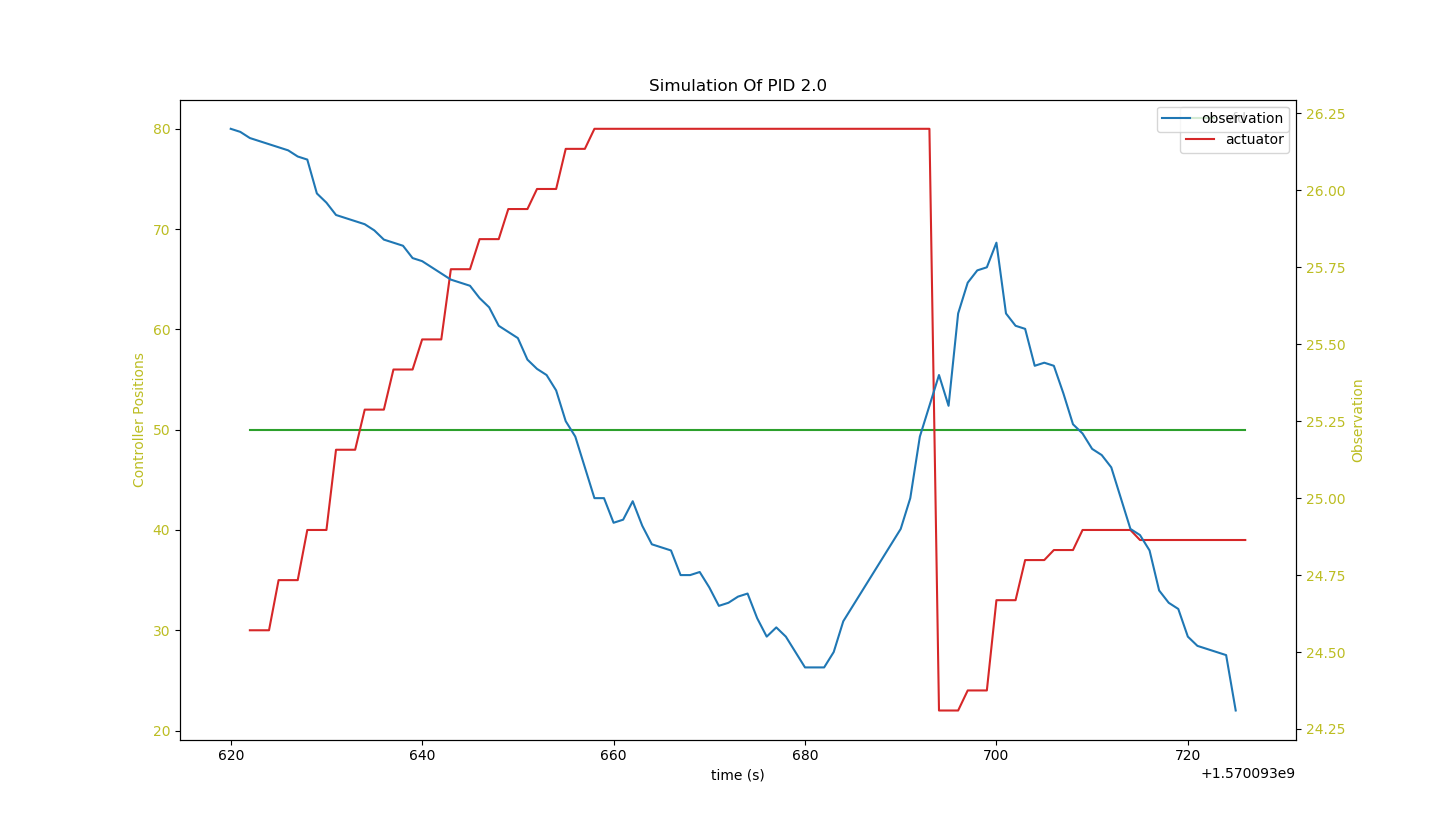
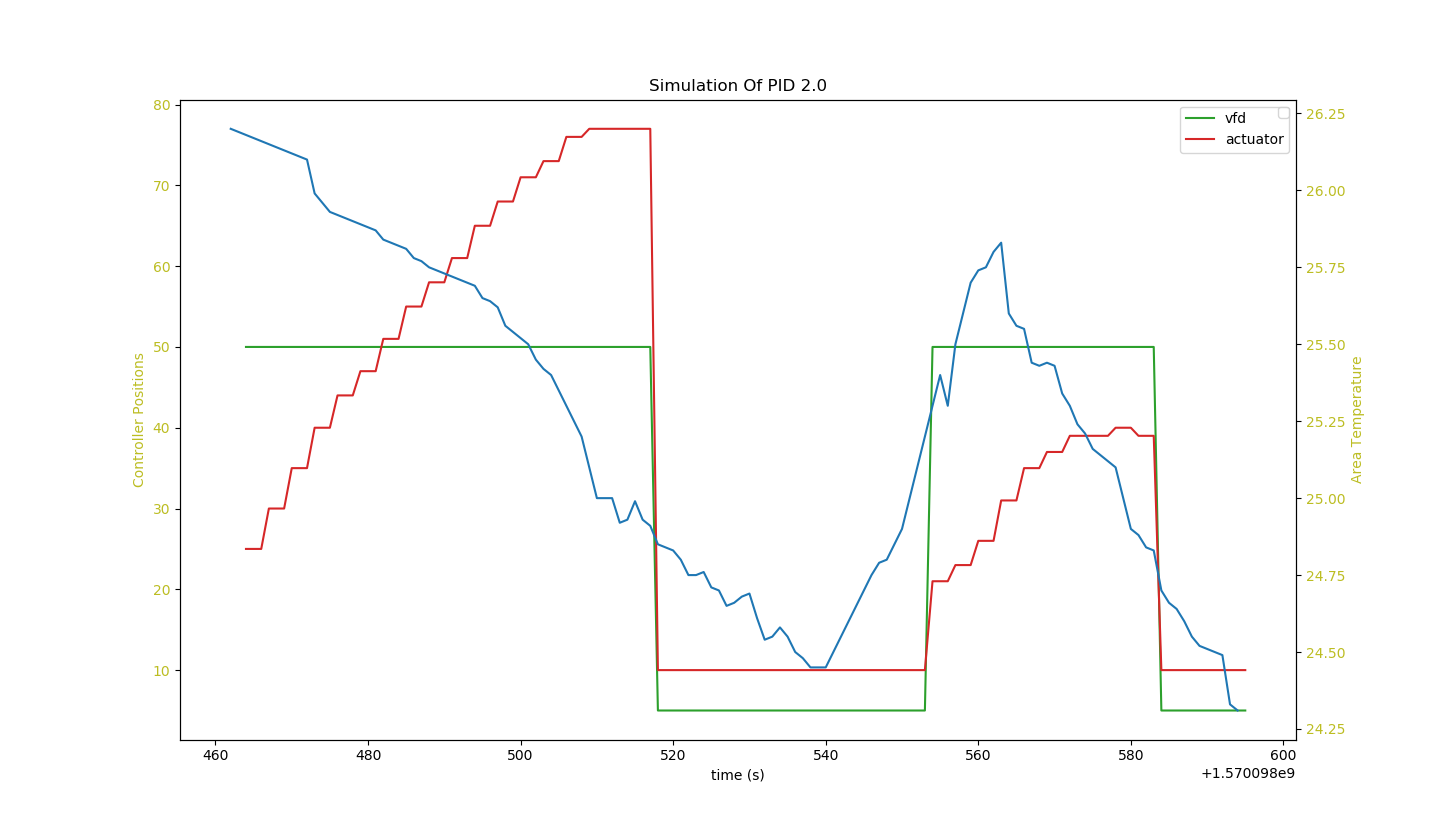
Testing of parameters

diff --git a/simulator.py b/simulator.py
@@ -63,8 +63,8 @@ class Simulator:
         observationTimeSeries = [timePoint for timePoint in self.observation]
         observationValue = [output for _, output in self.observation.items()]
         ax2 = ax1.twinx()
-        ax2.set_ylabel('Observation', color="tab:olive")
-        ax2.plot(observationTimeSeries, observationValue, label="observation")
+        ax2.set_ylabel('Area Temperature', color="tab:olive")
+        ax2.plot(observationTimeSeries, observationValue)
         ax2.tick_params(axis='y', labelcolor="tab:olive")
         plt.title('Simulation Of PID 2.0')
         plt.legend()
